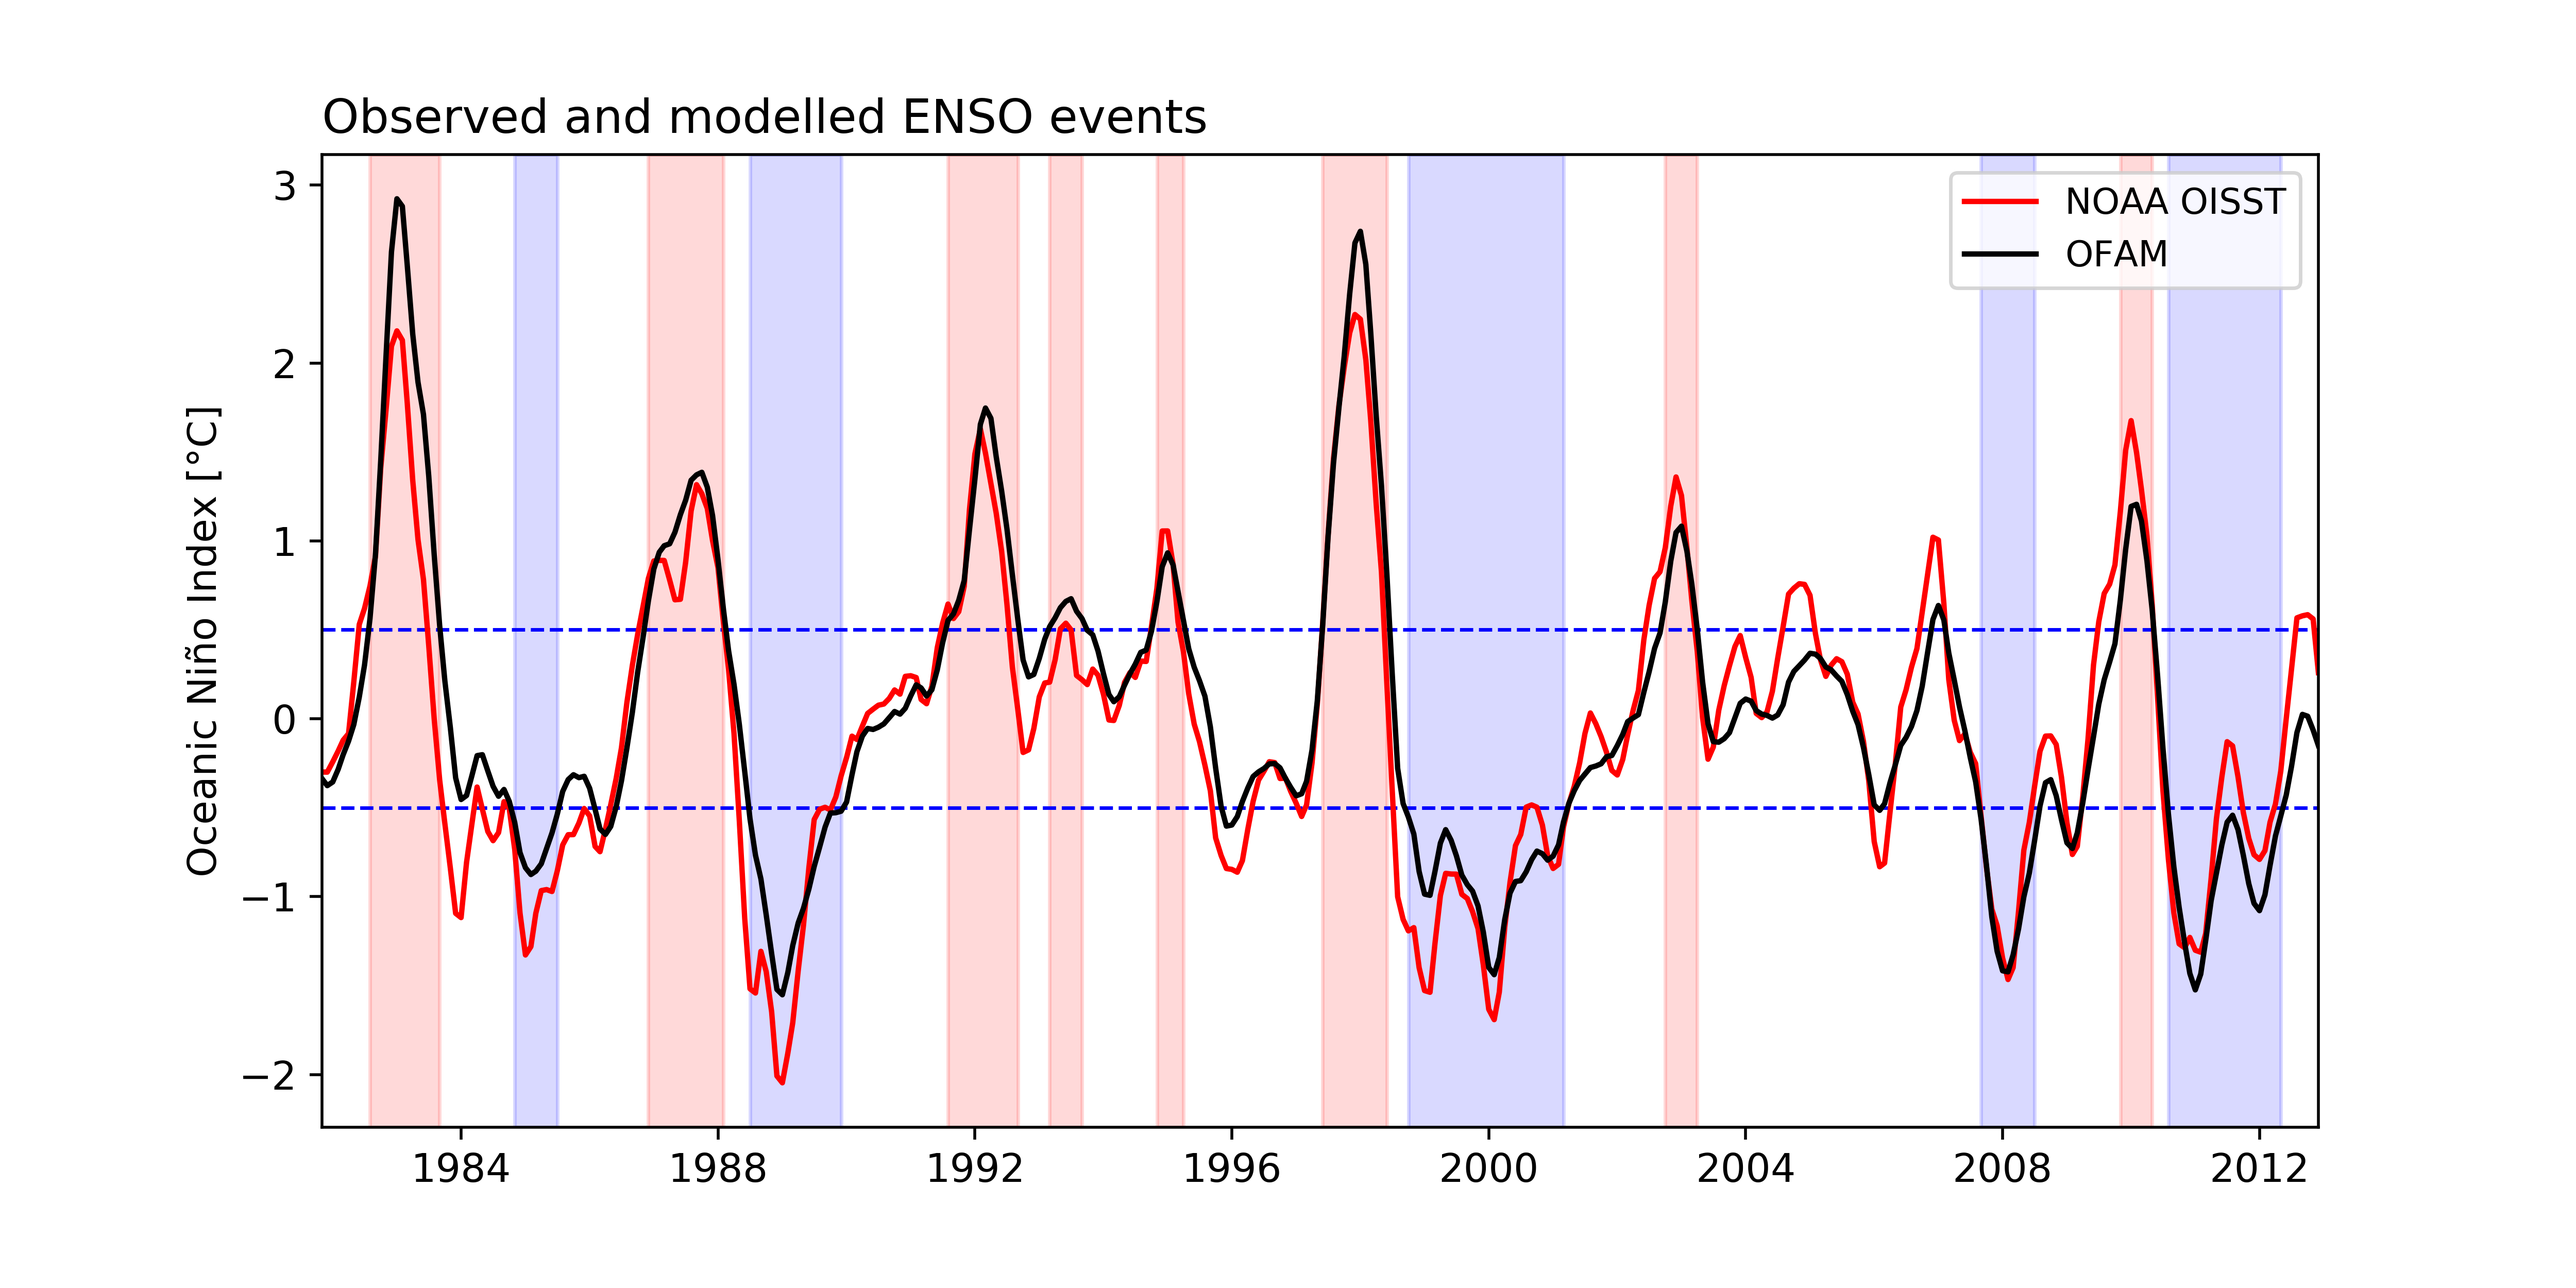
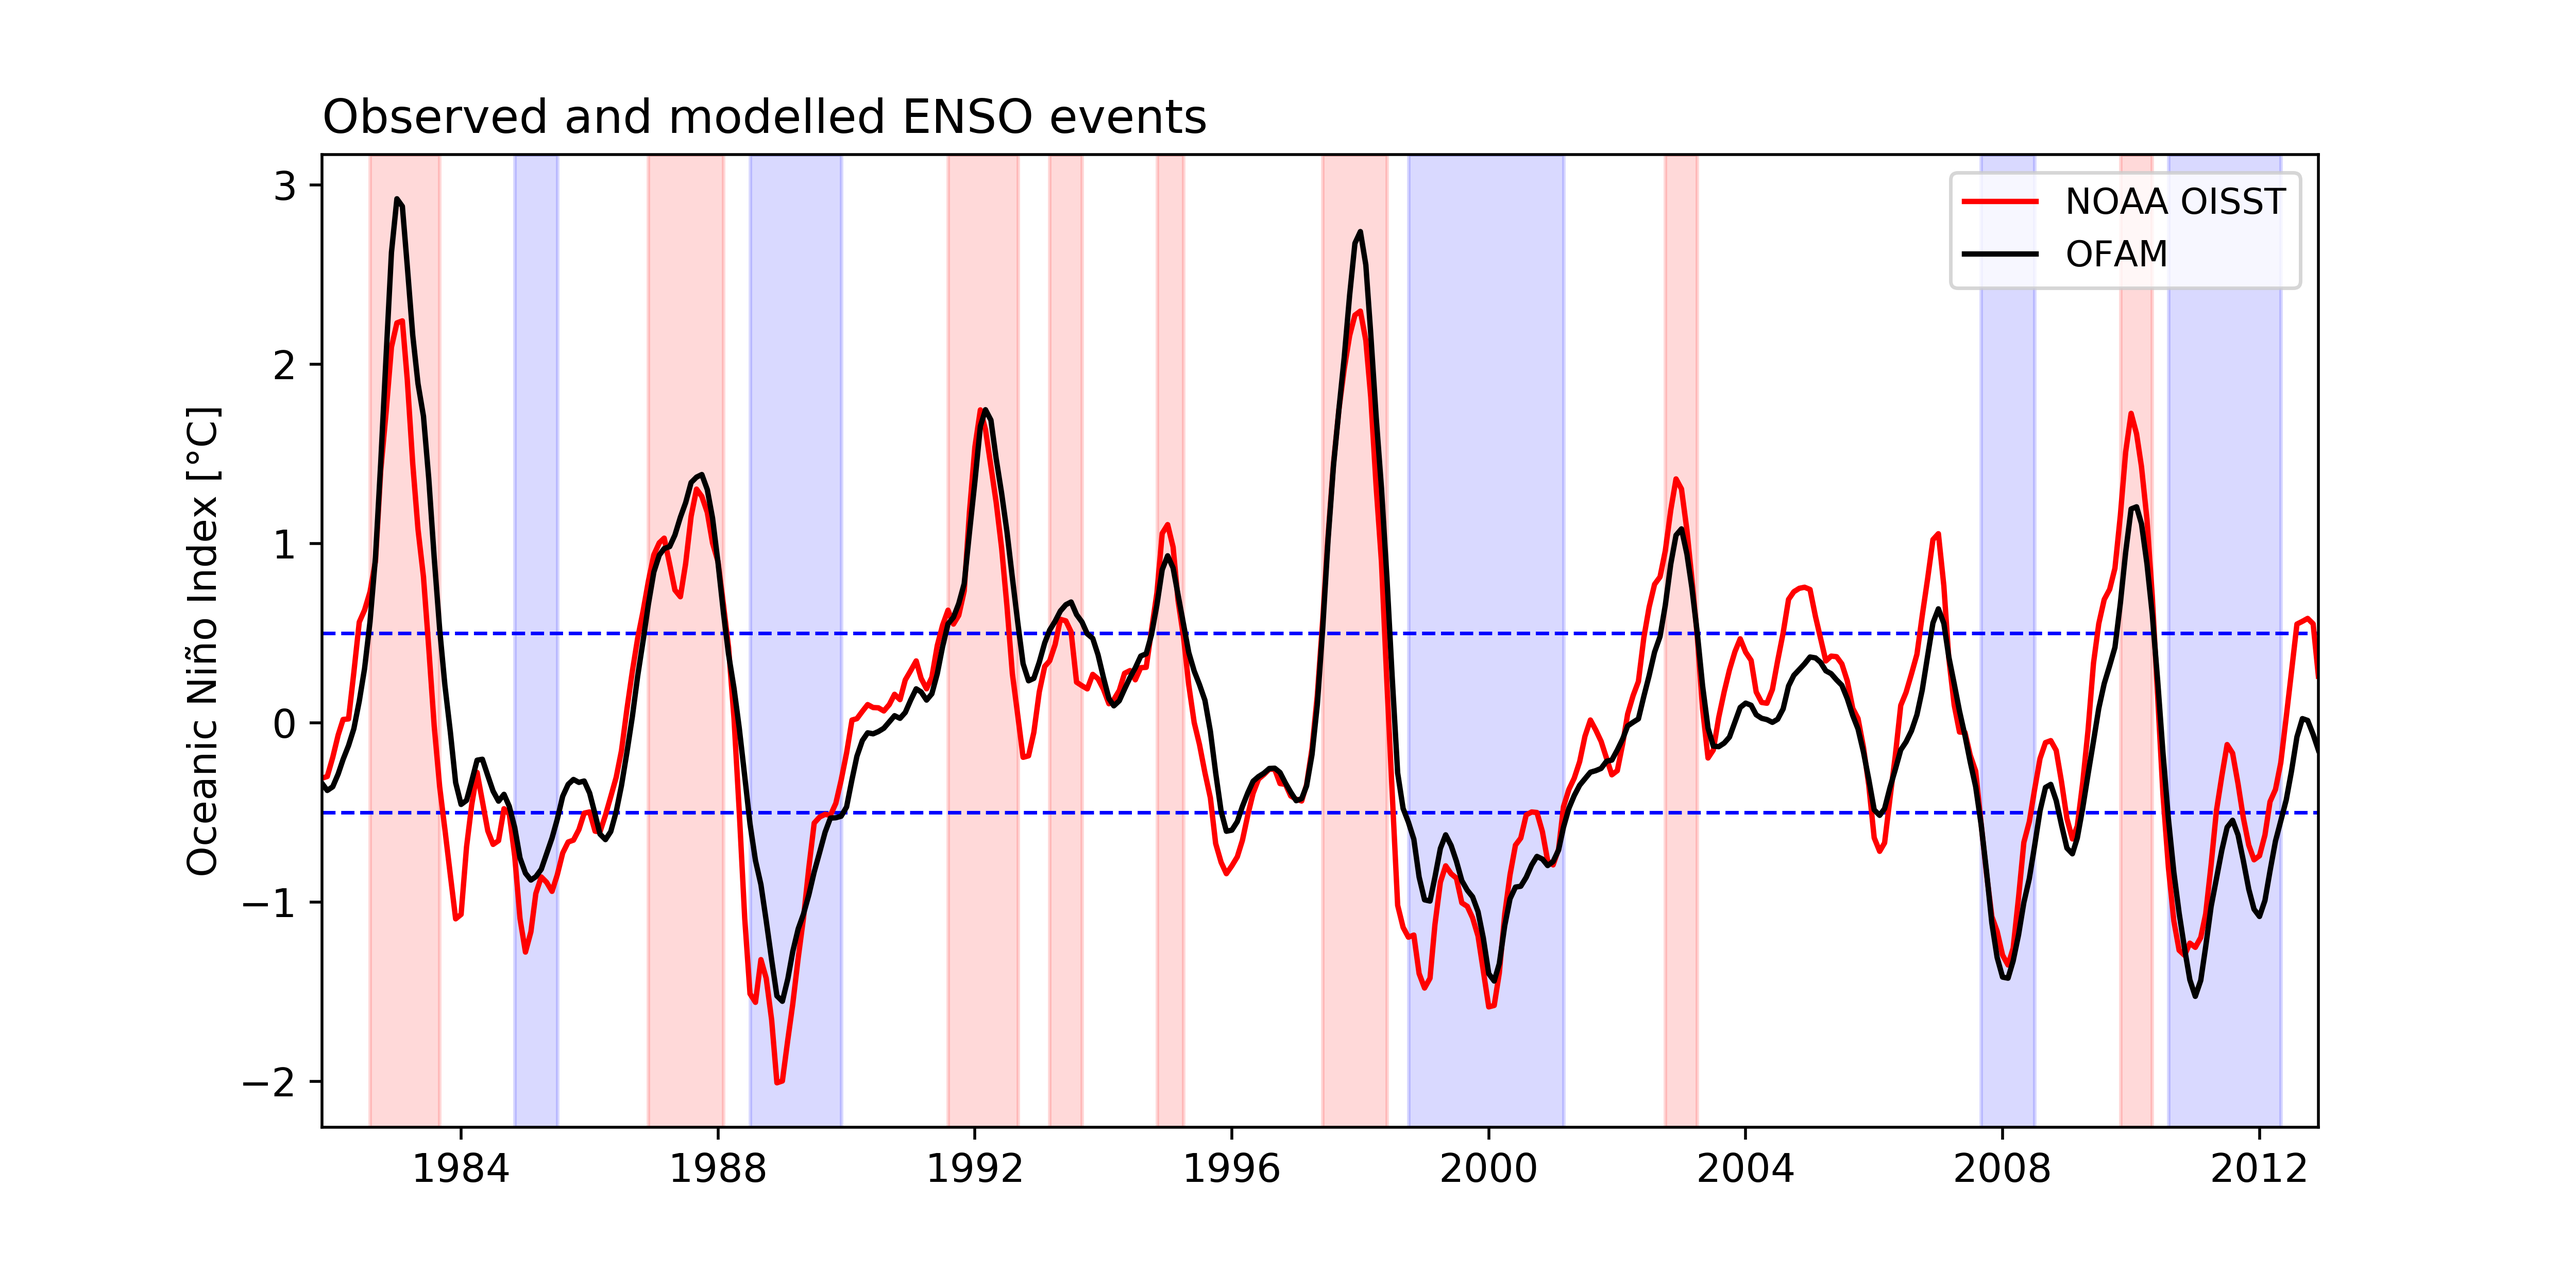
updated noaa nino34

diff --git a/scripts/create_file_ofam_climo.py b/scripts/create_file_ofam_climo.py
@@ -4,7 +4,7 @@ created: Tue Sep 10 18:44:15 2019
 
 author: Annette Stellema (astellemas@gmail.com)
 
-This script calculates the OFAM long-term mean climatology of u, v, salt 
+This script calculates the OFAM long-term mean climatology of u, v, salt
 and temp for time periods averaged over 1981 to 2012 and 2070 to 2101.
 
 """
@@ -25,14 +25,25 @@ cdo = Cdo()
 i = int(sys.argv[1]) # Variable index (e.g. u or salt) [0-4].
 x = int(sys.argv[2]) # Scenario index (hist or rcp85) [0-1].
 
-v = lx['vars'][i] 
-exp = lx['years'][x]
+v = lx['vars'][i]
+if x <= 2:
+    exp = lx['years'][x]
+    m1 = 1
+elif x == 3:
+    exp = [1985, 2000]
+    m1 = 6
+elif x == 4:
+    exp = [1991, 2000]
+    m1 = 6
 
 print('Executing:', v, exp)
 files = []
-for y in range(exp[0], exp[-1] + 1):
+
+for m in range(m1, 13):
+    files.append(str(xpath/('ocean_{}_{}_{:02d}.nc'.format(v, exp[0], m))))
+for y in range(exp[0] + 1, exp[-1] + 1):
     for m in range(1, 13):
-        files.append(str(xpath.joinpath('ocean_{}_{}_{:02d}.nc'.format(v, y, m))))
+        files.append(str(xpath/('ocean_{}_{}_{:02d}.nc'.format(v, y, m))))
 # Name to save merged file.
 merge = str(xpath.joinpath('ocean_{}_{}-{}_merged.nc'.format(v, *exp)))
 # Name to save climo.
@@ -49,5 +60,4 @@ os.remove(merge)
 
 # Check the file exits.
 if not os.path.exists(output):
-    warnings.warn('File does not exist after calculation.') 
-      
+    warnings.warn('File does not exist after calculation.')

diff --git a/scripts/main_valid.py b/scripts/main_valid.py
@@ -470,7 +470,7 @@ def EUC_bnds_izumo(du, dt, ds, lon, interpolated=False):
     return du4
 
 
-def EUC_bnds_static(du, lon=None, z1=25, z2=300, lat=2.6):
+def EUC_bnds_static(du, lon=None, z1=25, z2=350, lat=2.6):
     """Apply static EUC definition to zonal velocity at a longitude.
 
     Args:
@@ -484,7 +484,9 @@ def EUC_bnds_static(du, lon=None, z1=25, z2=300, lat=2.6):
         du4 (DataArray): The zonal velocity in the EUC region.
 
     """
-    # z1, z2, lat = 25, 300, 2.6
+    z2i = idx_1d(du.st_ocean, z2)
+    z2i = z2i if du.st_ocean[z2i] >= z2 else z2i + 1
+    z2 = du.st_ocean[z2i].item()
 
     # Slice depth and longitude.
     if lon is not None:

diff --git a/scripts/valid_nino34.py b/scripts/valid_nino34.py
@@ -96,7 +96,7 @@ def plot_oni_valid(ds, da, add_obs_ev=False):
     ax.set_xlim(xmax=ds.Time[-1], xmin=ds.Time[0])
     plt.ylabel('Oceanic Niño Index [°C]')
     plt.legend(fontsize=10, loc=1)
-    plt.savefig(fpath/'oni_ofam_noaa.png')
+    plt.savefig(fpath/'valid/oni_ofam_noaa.png')
 
     return
 
